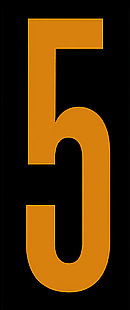
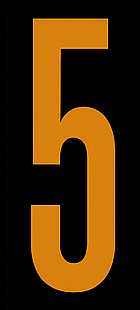
corrected digit 5 size

diff --git a/src/controller_display/digits.cpp b/src/controller_display/digits.cpp
@@ -400,76 +400,76 @@ const size_t digit_4_size = sizeof(digit_4) / sizeof(digit_4[0]);
 
 const unsigned int digit_5_w = 31;
 const unsigned char digit_5[] PROGMEM={
-    0,0,0,0,0,0,0,0,0,0,0,0,0,0,0,0,0,0,0,0,0,0,0,0,0,0,0,0,0,0,0,0,0,0,0,0,0,0,0,0,0,0,0,0,0,0,0,0,0,0,0,0,0,0,0,0,0,0
-    ,0,0,0,0,0,0,0,0,0,0,0,0,0,0,0,0,0,0,0,0,0,0,0,0,0,0,0,0,0,0,0,0,0,0,0,0,0,0,0,0,0,0,0,0,0,0,0,0,0,0,0,0,0,0,0,0,0,0
-    ,0,0,0,0,0,0,0,0,0,0,0,0,0,0,0,0,0,0,0,0,0,0,0,0,0,0,0,0,0,0,0,0,0,0,0,0,0,0,0,0,0,0,0,0,0,0,0,0,0,0,0,0,0,0,0,0,0,0
-    ,0,0,0,0,0,0,0,0,0,0,0,0,0,0,0,0,0,0,0,0,0,0,0,0,0,0,0,0,0,0,0,0,0,0,0,0,0,0,0,0,0,0,0,0,0,0,0,0,0,0,0,0,0,0,0,0,0,0
-    ,0,0,0,0,0,0,0,0,0,0,0,0,146,224,179,129,179,129,179,129,179,129,179,129,179,129,179,129,179,129,179,129,179,129,179,129,179,129,179,129,179,129,179,129,179,193,0,0,0,0,0,0,0,0,0,0,0,0
-    ,0,0,0,0,0,0,0,0,0,0,0,0,171,97,212,1,212,1,212,1,212,1,212,1,212,1,212,1,212,1,212,1,212,1,212,1,212,1,212,1,212,1,212,1,220,97,0,0,0,0,0,0,0,0,0,0,0,0
-    ,0,0,0,0,0,0,0,0,0,0,0,0,171,97,211,225,212,1,220,1,220,1,212,1,220,1,220,1,220,1,220,1,220,1,212,1,220,1,212,1,212,1,212,1,220,97,0,0,0,0,0,0,0,0,0,0,0,0
-    ,0,0,0,0,0,0,0,0,0,0,0,0,171,97,212,1,212,1,212,1,212,1,220,1,220,1,220,1,220,1,220,1,220,1,212,1,220,1,220,1,220,1,220,1,220,65,0,0,0,0,0,0,0,0,0,0,0,0
-    ,0,0,0,0,0,0,0,0,0,0,0,0,171,97,211,225,212,1,212,1,212,1,220,1,220,1,220,1,220,1,220,1,220,1,220,1,212,1,220,1,220,1,220,1,220,65,0,0,0,0,0,0,0,0,0,0,0,0
-    ,0,0,0,0,0,0,0,0,0,0,0,0,171,97,212,1,212,1,212,1,220,1,220,1,212,1,220,1,212,1,220,1,220,1,212,1,212,1,212,1,212,1,220,1,220,65,0,0,0,0,0,0,0,0,0,0,0,0
-    ,0,0,0,0,0,0,0,0,0,0,0,0,171,97,212,1,212,1,212,1,220,1,220,1,220,33,228,65,228,65,228,65,228,65,220,33,220,65,228,65,228,65,228,65,228,129,0,0,0,0,0,0,0,0,0,0,0,0
-    ,0,0,0,0,0,0,0,0,0,0,0,0,171,97,211,225,220,1,220,1,220,1,211,225,122,64,8,64,8,64,8,64,8,64,8,64,8,64,8,64,8,64,8,64,8,64,0,0,0,0,0,0,0,0,0,0,0,0
-    ,0,0,0,0,0,0,0,0,0,0,0,0,171,97,211,225,220,1,220,1,220,1,211,225,114,32,0,0,0,0,0,0,0,0,0,0,0,0,0,0,0,0,0,0,0,0,0,0,0,0,0,0,0,0,0,0,0,0
-    ,0,0,0,0,0,0,0,0,0,0,0,0,171,97,212,1,212,1,212,1,220,1,211,225,106,0,0,0,0,0,0,0,0,0,0,0,0,0,0,0,0,0,0,0,0,0,0,0,0,0,0,0,0,0,0,0,0,0
-    ,0,0,0,0,0,0,0,0,0,0,0,0,171,97,212,1,212,1,212,1,220,1,211,225,106,0,0,0,0,0,0,0,0,0,0,0,0,0,0,0,0,0,0,0,0,0,0,0,0,0,0,0,0,0,0,0,0,0
-    ,0,0,0,0,0,0,0,0,0,0,0,0,171,97,211,225,220,1,212,1,220,1,211,225,106,0,0,0,0,0,0,0,0,0,0,0,0,0,0,0,0,0,0,0,0,0,0,0,0,0,0,0,0,0,0,0,0,0
-    ,0,0,0,0,0,0,0,0,0,0,0,0,171,97,211,225,212,1,212,1,220,1,211,225,106,0,0,0,0,0,0,0,0,0,0,0,0,0,0,0,0,0,0,0,0,0,0,0,0,0,0,0,0,0,0,0,0,0
-    ,0,0,0,0,0,0,0,0,0,0,0,0,171,97,211,225,212,1,212,1,212,1,211,225,106,0,0,0,0,0,0,0,0,0,0,0,0,0,0,0,0,0,0,0,0,0,0,0,0,0,0,0,0,0,0,0,0,0
-    ,0,0,0,0,0,0,0,0,0,0,0,0,171,97,211,225,220,1,212,1,220,1,211,225,106,0,0,0,0,0,0,0,0,0,0,0,0,0,0,0,0,0,0,0,0,0,0,0,0,0,0,0,0,0,0,0,0,0
-    ,0,0,0,0,0,0,0,0,0,0,0,0,171,97,211,225,212,1,212,1,212,1,211,225,106,0,0,0,0,0,0,0,0,0,0,0,0,0,0,0,0,0,0,0,0,0,0,0,0,0,0,0,0,0,0,0,0,0
-    ,0,0,0,0,0,0,0,0,0,0,0,0,171,97,211,225,212,1,212,1,212,1,211,225,105,224,0,0,0,0,0,0,0,0,0,0,0,0,0,0,0,0,0,0,0,0,0,0,0,0,0,0,0,0,0,0,0,0
-    ,0,0,0,0,0,0,0,0,0,0,0,0,171,97,211,225,212,1,212,1,220,1,211,225,98,0,0,0,0,0,0,0,0,0,0,0,0,0,0,0,0,0,0,0,0,0,0,0,0,0,0,0,0,0,0,0,0,0
-    ,0,0,0,0,0,0,0,0,0,0,0,0,171,97,212,1,220,1,220,1,220,1,211,225,97,224,0,0,0,0,0,0,0,0,0,0,0,0,0,0,0,0,0,0,0,0,0,0,0,0,0,0,0,0,0,0,0,0
-    ,0,0,0,0,0,0,0,0,0,0,0,0,171,97,211,225,212,1,220,1,220,1,211,225,97,224,0,0,0,0,0,0,0,0,0,0,0,0,0,0,0,0,0,0,0,0,0,0,0,0,0,0,0,0,0,0,0,0
-    ,0,0,0,0,0,0,0,0,0,0,0,0,171,97,211,225,220,1,220,1,220,1,211,225,97,224,0,0,16,96,122,96,179,97,195,161,187,129,130,161,32,192,0,0,0,0,0,0,0,0,0,0,0,0,0,0,0,0
-    ,0,0,0,0,0,0,0,0,0,0,0,0,171,97,212,1,212,1,220,1,220,1,211,225,89,224,49,0,203,225,211,225,220,1,212,1,220,1,212,1,212,1,106,32,0,0,0,0,0,0,0,0,0,0,0,0,0,0
-    ,0,0,0,0,0,0,0,0,0,0,0,0,171,97,212,1,212,1,212,1,220,1,211,225,106,32,203,225,212,1,212,1,220,1,220,1,220,1,220,1,212,1,220,1,98,0,0,0,0,0,0,0,0,0,0,0,0,0
-    ,0,0,0,0,0,0,0,0,0,0,0,0,171,97,211,225,212,1,220,1,220,1,220,1,195,193,211,225,212,1,220,1,220,1,220,1,220,1,220,1,212,1,212,1,212,1,24,128,0,0,0,0,0,0,0,0,0,0
-    ,0,0,0,0,0,0,0,0,0,0,0,0,171,97,211,225,220,1,220,1,220,1,220,1,212,1,220,1,220,1,220,1,212,1,220,1,212,1,220,1,220,1,220,1,211,225,130,128,0,0,0,0,0,0,0,0,0,0
-    ,0,0,0,0,0,0,0,0,0,0,0,0,171,97,212,1,212,1,212,1,220,1,220,1,212,1,212,1,212,1,220,1,220,1,220,1,212,1,212,1,220,1,212,1,212,1,203,225,8,32,0,0,0,0,0,0,0,0
-    ,0,0,0,0,0,0,0,0,0,0,0,0,171,97,212,1,212,1,212,1,220,1,220,1,220,1,211,225,220,1,220,33,220,1,212,1,212,1,220,1,212,1,212,1,212,1,220,33,48,224,0,0,0,0,0,0,0,0
-    ,0,0,0,0,0,0,0,0,0,0,0,0,171,97,220,1,212,1,212,1,220,1,220,1,220,1,171,65,49,0,32,160,89,224,203,225,212,1,212,1,212,1,220,1,212,1,211,225,89,160,0,0,0,0,0,0,0,0
-    ,0,0,0,0,0,0,0,0,0,0,0,0,171,97,212,1,212,1,212,1,212,1,212,1,203,193,8,64,0,0,0,0,0,0,81,160,220,1,220,1,212,1,212,1,212,1,211,225,122,64,0,0,0,0,0,0,0,0
-    ,0,0,0,0,0,0,0,0,0,0,0,0,171,97,211,225,212,1,212,1,212,1,212,1,130,128,0,0,0,0,0,0,0,0,0,32,203,225,212,1,212,1,212,1,212,1,211,225,130,128,0,0,0,0,0,0,0,0
-    ,0,0,0,0,0,0,0,0,0,0,0,0,171,97,212,1,212,1,212,1,212,1,211,225,89,192,0,0,0,0,0,0,0,0,0,0,163,33,212,1,212,1,220,1,220,1,220,1,130,128,0,0,0,0,0,0,0,0
-    ,0,0,0,0,0,0,0,0,0,0,0,0,171,97,211,225,212,1,212,1,212,1,211,225,65,96,0,0,0,0,0,0,0,0,0,0,155,1,220,1,220,1,220,1,212,1,212,1,130,128,0,0,0,0,0,0,0,0
-    ,0,0,0,0,0,0,0,0,0,0,0,0,171,129,220,33,220,33,220,33,220,33,220,33,65,128,0,0,0,0,0,0,0,0,0,0,155,0,212,1,212,1,220,1,220,1,220,1,130,128,0,0,0,0,0,0,0,0
-    ,0,0,0,0,0,0,0,0,0,0,0,0,24,128,32,160,32,160,32,160,32,160,32,160,8,64,0,0,0,0,0,0,0,0,0,0,155,1,220,1,220,1,220,1,212,1,220,1,130,128,0,0,0,0,0,0,0,0
-    ,0,0,0,0,0,0,0,0,0,0,0,0,0,0,0,0,0,0,0,0,0,0,0,0,0,0,0,0,0,0,0,0,0,0,0,0,155,1,220,1,220,1,212,1,220,1,220,1,130,128,0,0,0,0,0,0,0,0
-    ,0,0,0,0,0,0,0,0,0,0,0,0,0,0,0,0,0,0,0,0,0,0,0,0,0,0,0,0,0,0,0,0,0,0,0,0,155,0,220,1,220,1,212,1,220,1,220,1,130,128,0,0,0,0,0,0,0,0
-    ,0,0,0,0,0,0,0,0,0,0,0,0,0,0,0,0,0,0,0,0,0,0,0,0,0,0,0,0,0,0,0,0,0,0,0,0,155,1,212,1,212,1,212,1,220,1,220,1,130,128,0,0,0,0,0,0,0,0
-    ,0,0,0,0,0,0,0,0,0,0,0,0,0,0,0,0,0,0,0,0,0,0,0,0,0,0,0,0,0,0,0,0,0,0,0,0,155,0,220,1,212,1,212,1,212,1,220,1,130,128,0,0,0,0,0,0,0,0
-    ,0,0,0,0,0,0,0,0,0,0,0,0,0,0,0,0,0,0,0,0,0,0,0,0,0,0,0,0,0,0,0,0,0,0,0,0,163,0,220,1,220,1,212,1,220,1,220,1,130,128,0,0,0,0,0,0,0,0
-    ,0,0,0,0,0,0,0,0,0,0,0,0,0,0,0,0,0,0,0,0,0,0,0,0,0,0,0,0,0,0,0,0,0,0,0,0,163,0,220,1,212,1,212,1,220,1,220,1,130,128,0,0,0,0,0,0,0,0
-    ,0,0,0,0,0,0,0,0,0,0,0,0,0,0,0,0,0,0,0,0,0,0,0,0,0,0,0,0,0,0,0,0,0,0,0,0,163,0,212,1,220,1,220,1,220,1,220,1,130,128,0,0,0,0,0,0,0,0
-    ,0,0,0,0,0,0,0,0,0,0,0,0,0,0,0,0,0,0,0,0,0,0,0,0,0,0,0,0,0,0,0,0,0,0,0,0,163,0,220,1,212,1,220,1,220,1,220,1,130,128,0,0,0,0,0,0,0,0
-    ,0,0,0,0,0,0,0,0,0,0,32,192,163,65,163,65,163,65,163,65,163,65,163,33,49,32,0,0,0,0,0,0,0,0,0,0,163,0,220,1,220,1,220,1,220,1,220,1,130,128,0,0,0,0,0,0,0,0
-    ,0,0,0,0,0,0,0,0,0,0,49,0,220,33,220,1,220,1,220,1,212,1,211,225,65,128,0,0,0,0,0,0,0,0,0,0,163,0,220,1,220,1,220,1,220,1,220,1,130,128,0,0,0,0,0,0,0,0
-    ,0,0,0,0,0,0,0,0,0,0,49,0,220,33,220,1,220,1,220,1,220,1,211,225,65,128,0,0,0,0,0,0,0,0,0,0,163,0,220,1,220,1,212,1,220,1,212,1,130,128,0,0,0,0,0,0,0,0
-    ,0,0,0,0,0,0,0,0,0,0,49,0,220,1,212,1,212,1,220,1,220,1,211,225,65,128,0,0,0,0,0,0,0,0,0,0,163,0,220,1,220,1,220,1,220,1,212,1,130,128,0,0,0,0,0,0,0,0
-    ,0,0,0,0,0,0,0,0,0,0,49,0,220,1,212,1,220,1,220,1,220,1,211,225,65,128,0,0,0,0,0,0,0,0,0,0,163,0,220,1,220,1,220,1,220,1,220,1,130,128,0,0,0,0,0,0,0,0
-    ,0,0,0,0,0,0,0,0,0,0,49,0,220,1,212,1,212,1,212,1,220,1,211,225,65,128,0,0,0,0,0,0,0,0,0,0,155,0,220,1,220,1,220,1,220,1,220,1,130,128,0,0,0,0,0,0,0,0
-    ,0,0,0,0,0,0,0,0,0,0,49,0,220,1,212,1,220,1,212,1,220,1,211,225,65,128,0,0,0,0,0,0,0,0,0,0,155,0,220,1,220,1,220,1,220,1,220,1,130,128,0,0,0,0,0,0,0,0
-    ,0,0,0,0,0,0,0,0,0,0,49,0,220,1,220,1,212,1,220,1,220,1,211,225,65,128,0,0,0,0,0,0,0,0,0,0,155,0,220,1,220,1,220,1,220,1,220,1,130,128,0,0,0,0,0,0,0,0
-    ,0,0,0,0,0,0,0,0,0,0,49,0,220,1,220,1,220,1,220,1,220,1,211,225,65,128,0,0,0,0,0,0,0,0,0,0,163,1,220,1,212,1,220,1,220,1,220,1,130,128,0,0,0,0,0,0,0,0
-    ,0,0,0,0,0,0,0,0,0,0,49,0,220,1,212,1,220,1,220,1,220,1,211,225,65,128,0,0,0,0,0,0,0,0,0,0,163,33,220,1,220,1,220,1,220,1,220,1,130,128,0,0,0,0,0,0,0,0
-    ,0,0,0,0,0,0,0,0,0,0,40,192,220,1,212,1,212,1,220,1,220,1,211,225,89,224,0,0,0,0,0,0,0,0,0,0,187,161,220,1,212,1,220,1,220,1,211,225,122,64,0,0,0,0,0,0,0,0
-    ,0,0,0,0,0,0,0,0,0,0,8,32,220,33,212,1,220,1,220,1,220,1,212,1,154,224,0,0,0,0,0,0,0,0,24,128,212,1,220,1,220,1,220,1,220,1,211,225,89,192,0,0,0,0,0,0,0,0
-    ,0,0,0,0,0,0,0,0,0,0,0,0,195,193,212,1,212,1,212,1,220,1,212,1,220,1,73,128,0,0,0,0,0,0,146,192,212,1,220,1,220,1,220,1,220,1,220,33,48,224,0,0,0,0,0,0,0,0
-    ,0,0,0,0,0,0,0,0,0,0,0,0,138,193,211,225,212,1,212,1,220,1,212,1,220,1,212,1,155,1,138,160,179,97,220,1,212,1,212,1,220,1,220,1,212,1,203,225,8,32,0,0,0,0,0,0,0,0
-    ,0,0,0,0,0,0,0,0,0,0,0,0,65,64,220,1,212,1,212,1,212,1,212,1,212,1,212,1,212,1,212,1,212,1,220,1,220,1,220,1,220,1,220,1,211,225,130,160,0,0,0,0,0,0,0,0,0,0
-    ,0,0,0,0,0,0,0,0,0,0,0,0,0,0,179,129,212,1,212,1,220,1,220,1,220,1,212,1,212,1,212,1,212,1,220,1,220,1,220,1,212,1,220,1,220,1,32,160,0,0,0,0,0,0,0,0,0,0
-    ,0,0,0,0,0,0,0,0,0,0,0,0,0,0,57,32,212,1,212,1,212,1,212,1,220,1,212,1,212,1,220,1,220,1,220,1,220,1,220,1,220,1,220,1,122,128,0,0,0,0,0,0,0,0,0,0,0,0
-    ,0,0,0,0,0,0,0,0,0,0,0,0,0,0,0,0,89,192,212,1,211,225,212,1,212,1,212,1,212,1,212,1,220,1,220,1,220,1,212,1,220,1,155,32,0,0,0,0,0,0,0,0,0,0,0,0,0,0
-    ,0,0,0,0,0,0,0,0,0,0,0,0,0,0,0,0,0,0,65,64,195,161,212,1,212,1,211,225,211,225,212,1,212,1,212,1,212,1,220,1,130,128,0,32,0,0,0,0,0,0,0,0,0,0,0,0,0,0
-    ,0,0,0,0,0,0,0,0,0,0,0,0,0,0,0,0,0,0,0,0,0,32,81,192,155,1,195,193,212,1,212,33,212,1,187,161,130,160,40,192,0,0,0,0,0,0,0,0,0,0,0,0,0,0,0,0,0,0
-    ,0,0,0,0,0,0,0,0,0,0,0,0,0,0,0,0,0,0,0,0,0,0,0,0,0,0,0,0,0,0,8,32,0,0,0,0,0,0,0,0,0,0,0,0,0,0,0,0,0,0,0,0,0,0,0,0,0,0
-    ,0,0,0,0,0,0,0,0,0,0,0,0,0,0,0,0,0,0,0,0,0,0,0,0,0,0,0,0,0,0,0,0,0,0,0,0,0,0,0,0,0,0,0,0,0,0,0,0,0,0,0,0,0,0,0,0,0,0
-    ,0,0,0,0,0,0,0,0,0,0,0,0,0,0,0,0,0,0,0,0,0,0,0,0,0,0,0,0,0,0,0,0,0,0,0,0,0,0,0,0,0,0,0,0,0,0,0,0,0,0,0,0,0,0,0,0,0,0
-    ,0,0,0,0,0,0,0,0,0,0,0,0,0,0,0,0,0,0,0,0,0,0,0,0,0,0,0,0,0,0,0,0,0,0,0,0,0,0,0,0,0,0,0,0,0,0,0,0,0,0,0,0,0,0,0,0,0,0
+    0,0,0,0,0,0,0,0,0,0,0,0,0,0,0,0,0,0,0,0,0,0,0,0,0,0,0,0,0,0,0,0,0,0,0,0,0,0,0,0,0,0,0,0,0,0,0,0,0,0,0,0,0,0,0,0,0,0,0,0,0,0
+    ,0,0,0,0,0,0,0,0,0,0,0,0,0,0,0,0,0,0,0,0,0,0,0,0,0,0,0,0,0,0,0,0,0,0,0,0,0,0,0,0,0,0,0,0,0,0,0,0,0,0,0,0,0,0,0,0,0,0,0,0,0,0
+    ,0,0,0,0,0,0,0,0,0,0,0,0,0,0,0,0,0,0,0,0,0,0,0,0,0,0,0,0,0,0,0,0,0,0,0,0,0,0,0,0,0,0,0,0,0,0,0,0,0,0,0,0,0,0,0,0,0,0,0,0,0,0
+    ,0,0,0,0,0,0,0,0,0,0,0,0,0,0,0,0,0,0,0,0,0,0,0,0,0,0,0,0,0,0,0,0,0,0,0,0,0,0,0,0,0,0,0,0,0,0,0,0,0,0,0,0,0,0,0,0,0,0,0,0,0,0
+    ,0,0,0,0,0,0,0,0,0,0,0,0,0,0,130,160,179,129,179,129,179,129,179,129,179,129,179,129,179,129,179,129,179,129,179,129,179,129,179,129,179,129,179,129,179,129,171,128,0,0,0,0,0,0,0,0,0,0,0,0,0,0
+    ,0,0,0,0,0,0,0,0,0,0,0,0,0,0,155,33,212,1,212,1,212,1,212,1,212,1,212,1,212,1,212,1,212,1,212,1,212,1,212,1,212,1,212,1,212,1,204,33,0,0,0,0,0,0,0,0,0,0,0,0,0,0
+    ,0,0,0,0,0,0,0,0,0,0,0,0,0,0,155,33,211,225,212,1,220,1,220,1,212,1,220,1,220,1,220,1,220,1,220,1,212,1,220,1,212,1,212,1,212,1,204,33,0,0,0,0,0,0,0,0,0,0,0,0,0,0
+    ,0,0,0,0,0,0,0,0,0,0,0,0,0,0,155,33,212,1,212,1,212,1,212,1,220,1,220,1,220,1,220,1,220,1,220,1,212,1,220,1,220,1,220,1,220,1,204,1,0,0,0,0,0,0,0,0,0,0,0,0,0,0
+    ,0,0,0,0,0,0,0,0,0,0,0,0,0,0,155,33,211,225,212,1,212,1,212,1,220,1,220,1,220,1,220,1,220,1,220,1,220,1,212,1,220,1,220,1,220,1,204,1,0,0,0,0,0,0,0,0,0,0,0,0,0,0
+    ,0,0,0,0,0,0,0,0,0,0,0,0,0,0,155,33,212,1,212,1,212,1,220,1,220,1,212,1,220,1,212,1,220,1,220,1,212,1,212,1,212,1,212,1,220,1,204,1,0,0,0,0,0,0,0,0,0,0,0,0,0,0
+    ,0,0,0,0,0,0,0,0,0,0,0,0,0,0,155,33,212,1,212,1,212,1,220,1,220,1,220,33,228,65,228,65,228,65,228,65,220,33,220,65,228,65,228,65,228,65,212,65,0,0,0,0,0,0,0,0,0,0,0,0,0,0
+    ,0,0,0,0,0,0,0,0,0,0,0,0,0,0,155,33,211,225,220,1,220,1,220,1,211,225,122,64,8,64,8,64,8,64,8,64,8,64,8,64,8,64,8,64,8,64,8,64,0,0,0,0,0,0,0,0,0,0,0,0,0,0
+    ,0,0,0,0,0,0,0,0,0,0,0,0,0,0,155,33,211,225,220,1,220,1,220,1,211,225,114,32,0,0,0,0,0,0,0,0,0,0,0,0,0,0,0,0,0,0,0,0,0,0,0,0,0,0,0,0,0,0,0,0,0,0
+    ,0,0,0,0,0,0,0,0,0,0,0,0,0,0,155,33,212,1,212,1,212,1,220,1,211,225,114,32,0,0,0,0,0,0,0,0,0,0,0,0,0,0,0,0,0,0,0,0,0,0,0,0,0,0,0,0,0,0,0,0,0,0
+    ,0,0,0,0,0,0,0,0,0,0,0,0,0,0,155,33,212,1,212,1,212,1,220,1,211,225,106,0,0,0,0,0,0,0,0,0,0,0,0,0,0,0,0,0,0,0,0,0,0,0,0,0,0,0,0,0,0,0,0,0,0,0
+    ,0,0,0,0,0,0,0,0,0,0,0,0,0,0,155,33,211,225,220,1,212,1,220,1,211,225,106,0,0,0,0,0,0,0,0,0,0,0,0,0,0,0,0,0,0,0,0,0,0,0,0,0,0,0,0,0,0,0,0,0,0,0
+    ,0,0,0,0,0,0,0,0,0,0,0,0,0,0,155,33,211,225,212,1,212,1,220,1,211,225,106,0,0,0,0,0,0,0,0,0,0,0,0,0,0,0,0,0,0,0,0,0,0,0,0,0,0,0,0,0,0,0,0,0,0,0
+    ,0,0,0,0,0,0,0,0,0,0,0,0,0,0,155,33,211,225,212,1,212,1,212,1,211,225,106,0,0,0,0,0,0,0,0,0,0,0,0,0,0,0,0,0,0,0,0,0,0,0,0,0,0,0,0,0,0,0,0,0,0,0
+    ,0,0,0,0,0,0,0,0,0,0,0,0,0,0,155,33,211,225,220,1,212,1,220,1,211,225,106,0,0,0,0,0,0,0,0,0,0,0,0,0,0,0,0,0,0,0,0,0,0,0,0,0,0,0,0,0,0,0,0,0,0,0
+    ,0,0,0,0,0,0,0,0,0,0,0,0,0,0,155,33,211,225,212,1,212,1,212,1,211,225,106,0,0,0,0,0,0,0,0,0,0,0,0,0,0,0,0,0,0,0,0,0,0,0,0,0,0,0,0,0,0,0,0,0,0,0
+    ,0,0,0,0,0,0,0,0,0,0,0,0,0,0,155,33,211,225,212,1,212,1,212,1,211,225,106,0,0,0,0,0,0,0,0,0,0,0,0,0,0,0,0,0,0,0,0,0,0,0,0,0,0,0,0,0,0,0,0,0,0,0
+    ,0,0,0,0,0,0,0,0,0,0,0,0,0,0,155,33,211,225,212,1,212,1,220,1,211,225,106,0,0,0,0,0,0,0,0,0,0,0,0,0,0,0,0,0,0,0,0,0,0,0,0,0,0,0,0,0,0,0,0,0,0,0
+    ,0,0,0,0,0,0,0,0,0,0,0,0,0,0,155,33,212,1,220,1,220,1,220,1,211,225,106,0,0,0,0,0,0,0,0,0,0,0,0,0,0,0,0,0,0,0,0,0,0,0,0,0,0,0,0,0,0,0,0,0,0,0
+    ,0,0,0,0,0,0,0,0,0,0,0,0,0,0,155,33,211,225,212,1,220,1,220,1,211,225,97,224,0,0,0,0,0,0,0,0,0,0,0,0,0,0,0,0,0,0,0,0,0,0,0,0,0,0,0,0,0,0,0,0,0,0
+    ,0,0,0,0,0,0,0,0,0,0,0,0,0,0,155,33,211,225,220,1,220,1,220,1,211,225,97,224,0,0,16,96,122,96,179,97,195,161,187,129,130,129,32,160,0,0,0,0,0,0,0,0,0,0,0,0,0,0,0,0,0,0
+    ,0,0,0,0,0,0,0,0,0,0,0,0,0,0,155,33,212,1,212,1,220,1,220,1,211,225,97,224,49,0,203,193,211,225,220,1,212,1,220,1,212,1,212,1,97,224,0,0,0,0,0,0,0,0,0,0,0,0,0,0,0,0
+    ,0,0,0,0,0,0,0,0,0,0,0,0,0,0,155,33,212,1,212,1,212,1,220,1,211,225,106,32,203,225,212,1,212,1,220,1,220,1,220,1,220,1,212,1,220,1,89,160,0,0,0,0,0,0,0,0,0,0,0,0,0,0
+    ,0,0,0,0,0,0,0,0,0,0,0,0,0,0,155,33,211,225,212,1,220,1,220,1,220,1,195,193,211,225,212,1,220,1,220,1,220,1,220,1,220,1,212,1,212,1,211,225,16,96,0,0,0,0,0,0,0,0,0,0,0,0
+    ,0,0,0,0,0,0,0,0,0,0,0,0,0,0,155,33,211,225,220,1,220,1,220,1,220,1,212,1,220,1,220,1,220,1,212,1,220,1,212,1,220,1,220,1,220,1,211,225,114,64,0,0,0,0,0,0,0,0,0,0,0,0
+    ,0,0,0,0,0,0,0,0,0,0,0,0,0,0,155,33,212,1,212,1,212,1,220,1,220,1,212,1,212,1,212,1,220,1,220,1,220,1,212,1,212,1,220,1,212,1,212,1,195,193,0,0,0,0,0,0,0,0,0,0,0,0
+    ,0,0,0,0,0,0,0,0,0,0,0,0,0,0,155,33,220,1,212,1,212,1,220,1,220,1,220,1,211,225,220,1,220,33,220,1,212,1,212,1,220,1,220,1,212,1,212,1,220,65,24,128,0,0,0,0,0,0,0,0,0,0
+    ,0,0,0,0,0,0,0,0,0,0,0,0,0,0,155,33,220,1,212,1,212,1,220,1,220,1,220,1,171,65,49,0,32,160,97,224,211,225,212,1,212,1,212,1,220,1,212,1,211,225,73,96,0,0,0,0,0,0,0,0,0,0
+    ,0,0,0,0,0,0,0,0,0,0,0,0,0,0,155,33,212,1,212,1,212,1,212,1,212,1,203,225,8,64,0,0,0,0,0,0,89,192,220,1,220,1,212,1,212,1,212,1,211,225,106,0,0,0,0,0,0,0,0,0,0,0
+    ,0,0,0,0,0,0,0,0,0,0,0,0,0,0,155,33,211,225,212,1,212,1,212,1,212,1,130,160,0,0,0,0,0,0,0,0,8,32,212,1,212,1,212,1,220,1,212,1,211,225,114,32,0,0,0,0,0,0,0,0,0,0
+    ,0,0,0,0,0,0,0,0,0,0,0,0,0,0,155,33,212,1,212,1,212,1,212,1,211,225,89,224,0,0,0,0,0,0,0,0,0,0,171,65,212,1,212,1,220,1,220,1,220,1,114,64,0,0,0,0,0,0,0,0,0,0
+    ,0,0,0,0,0,0,0,0,0,0,0,0,0,0,155,33,211,225,212,1,212,1,212,1,211,225,65,128,0,0,0,0,0,0,0,0,0,0,163,33,220,1,220,1,220,1,212,1,212,1,114,64,0,0,0,0,0,0,0,0,0,0
+    ,0,0,0,0,0,0,0,0,0,0,0,0,0,0,163,65,220,33,220,33,220,33,220,33,220,33,73,128,0,0,0,0,0,0,0,0,0,0,163,33,212,1,212,1,220,1,220,1,220,1,114,64,0,0,0,0,0,0,0,0,0,0
+    ,0,0,0,0,0,0,0,0,0,0,0,0,0,0,24,128,32,160,32,160,32,160,32,160,32,160,8,64,0,0,0,0,0,0,0,0,0,0,163,33,220,1,220,1,220,1,220,1,220,1,114,64,0,0,0,0,0,0,0,0,0,0
+    ,0,0,0,0,0,0,0,0,0,0,0,0,0,0,0,0,0,0,0,0,0,0,0,0,0,0,0,0,0,0,0,0,0,0,0,0,0,0,163,33,220,1,220,1,212,1,220,1,220,1,114,64,0,0,0,0,0,0,0,0,0,0
+    ,0,0,0,0,0,0,0,0,0,0,0,0,0,0,0,0,0,0,0,0,0,0,0,0,0,0,0,0,0,0,0,0,0,0,0,0,0,0,163,33,220,1,220,1,212,1,220,1,220,1,114,64,0,0,0,0,0,0,0,0,0,0
+    ,0,0,0,0,0,0,0,0,0,0,0,0,0,0,0,0,0,0,0,0,0,0,0,0,0,0,0,0,0,0,0,0,0,0,0,0,0,0,163,33,212,1,212,1,212,1,220,1,220,1,114,32,0,0,0,0,0,0,0,0,0,0
+    ,0,0,0,0,0,0,0,0,0,0,0,0,0,0,0,0,0,0,0,0,0,0,0,0,0,0,0,0,0,0,0,0,0,0,0,0,0,0,163,33,220,1,212,1,220,1,212,1,220,1,114,64,0,0,0,0,0,0,0,0,0,0
+    ,0,0,0,0,0,0,0,0,0,0,0,0,0,0,0,0,0,0,0,0,0,0,0,0,0,0,0,0,0,0,0,0,0,0,0,0,0,0,163,33,220,1,220,1,212,1,220,1,220,1,114,64,0,0,0,0,0,0,0,0,0,0
+    ,0,0,0,0,0,0,0,0,0,0,0,0,0,0,0,0,0,0,0,0,0,0,0,0,0,0,0,0,0,0,0,0,0,0,0,0,0,0,163,33,220,1,212,1,212,1,220,1,212,1,114,64,0,0,0,0,0,0,0,0,0,0
+    ,0,0,0,0,0,0,0,0,0,0,0,0,0,0,0,0,0,0,0,0,0,0,0,0,0,0,0,0,0,0,0,0,0,0,0,0,0,0,163,32,220,1,220,1,220,1,220,1,220,1,114,32,0,0,0,0,0,0,0,0,0,0
+    ,0,0,0,0,0,0,0,0,0,0,0,0,0,0,0,0,0,0,0,0,0,0,0,0,0,0,0,0,0,0,0,0,0,0,0,0,0,0,163,32,220,1,212,1,220,1,220,1,220,1,114,32,0,0,0,0,0,0,0,0,0,0
+    ,0,0,0,0,0,0,0,0,0,0,0,0,24,128,163,65,163,65,163,65,163,65,163,65,163,33,49,64,0,0,0,0,0,0,0,0,0,0,163,32,220,1,220,1,220,1,220,1,220,1,114,32,0,0,0,0,0,0,0,0,0,0
+    ,0,0,0,0,0,0,0,0,0,0,0,0,32,160,220,33,220,1,220,1,220,1,212,1,211,225,65,128,0,0,0,0,0,0,0,0,0,0,163,33,220,1,220,1,220,1,220,1,220,1,114,32,0,0,0,0,0,0,0,0,0,0
+    ,0,0,0,0,0,0,0,0,0,0,0,0,32,160,220,33,220,1,220,1,220,1,220,1,211,225,65,160,0,0,0,0,0,0,0,0,0,0,163,32,220,1,220,1,212,1,220,1,212,1,114,64,0,0,0,0,0,0,0,0,0,0
+    ,0,0,0,0,0,0,0,0,0,0,0,0,32,160,220,33,212,1,212,1,220,1,220,1,211,225,65,160,0,0,0,0,0,0,0,0,0,0,163,32,220,1,220,1,220,1,220,1,212,1,114,64,0,0,0,0,0,0,0,0,0,0
+    ,0,0,0,0,0,0,0,0,0,0,0,0,32,160,220,33,212,1,220,1,220,1,220,1,211,225,65,160,0,0,0,0,0,0,0,0,0,0,163,33,220,1,220,1,220,1,220,1,220,1,114,64,0,0,0,0,0,0,0,0,0,0
+    ,0,0,0,0,0,0,0,0,0,0,0,0,32,160,220,33,212,1,212,1,212,1,220,1,211,225,65,160,0,0,0,0,0,0,0,0,0,0,163,32,220,1,220,1,220,1,220,1,220,1,114,32,0,0,0,0,0,0,0,0,0,0
+    ,0,0,0,0,0,0,0,0,0,0,0,0,32,160,220,33,212,1,220,1,212,1,220,1,211,225,65,160,0,0,0,0,0,0,0,0,0,0,163,33,220,1,220,1,220,1,220,1,220,1,114,64,0,0,0,0,0,0,0,0,0,0
+    ,0,0,0,0,0,0,0,0,0,0,0,0,32,160,220,33,220,1,212,1,220,1,220,1,211,225,65,128,0,0,0,0,0,0,0,0,0,0,163,33,220,1,220,1,220,1,220,1,220,1,114,64,0,0,0,0,0,0,0,0,0,0
+    ,0,0,0,0,0,0,0,0,0,0,0,0,32,160,220,33,220,1,220,1,220,1,220,1,211,225,65,128,0,0,0,0,0,0,0,0,0,0,163,33,220,1,212,1,220,1,220,1,220,1,114,64,0,0,0,0,0,0,0,0,0,0
+    ,0,0,0,0,0,0,0,0,0,0,0,0,32,160,220,33,212,1,220,1,220,1,220,1,211,225,73,128,0,0,0,0,0,0,0,0,0,0,171,33,220,1,220,1,220,1,220,1,220,1,114,64,0,0,0,0,0,0,0,0,0,0
+    ,0,0,0,0,0,0,0,0,0,0,0,0,24,128,220,1,212,1,212,1,220,1,220,1,211,225,97,224,0,0,0,0,0,0,0,0,0,0,195,193,220,1,212,1,220,1,220,1,211,225,106,0,0,0,0,0,0,0,0,0,0,0
+    ,0,0,0,0,0,0,0,0,0,0,0,0,8,32,212,1,212,1,220,1,220,1,220,1,212,1,155,0,0,0,0,0,0,0,0,0,24,128,220,33,220,1,220,1,220,1,220,1,211,225,73,128,0,0,0,0,0,0,0,0,0,0
+    ,0,0,0,0,0,0,0,0,0,0,0,0,0,0,179,129,212,1,212,1,212,1,220,1,212,1,220,1,73,128,0,0,0,0,0,0,146,225,212,1,220,1,220,1,220,1,220,1,220,33,24,128,0,0,0,0,0,0,0,0,0,0
+    ,0,0,0,0,0,0,0,0,0,0,0,0,0,0,130,129,211,225,212,1,212,1,220,1,212,1,220,1,212,1,155,1,138,160,179,129,220,1,212,1,212,1,220,1,220,1,212,1,195,193,0,0,0,0,0,0,0,0,0,0,0,0
+    ,0,0,0,0,0,0,0,0,0,0,0,0,0,0,49,0,220,1,212,1,212,1,212,1,212,1,212,1,212,1,212,1,212,1,212,1,220,1,220,1,220,1,220,1,220,1,211,225,122,96,0,0,0,0,0,0,0,0,0,0,0,0
+    ,0,0,0,0,0,0,0,0,0,0,0,0,0,0,0,0,171,65,212,1,212,1,220,1,220,1,220,1,212,1,212,1,212,1,212,1,220,1,220,1,220,1,212,1,220,1,212,1,24,128,0,0,0,0,0,0,0,0,0,0,0,0
+    ,0,0,0,0,0,0,0,0,0,0,0,0,0,0,0,0,48,224,212,1,212,1,212,1,212,1,220,1,212,1,212,1,220,1,220,1,220,1,220,1,220,1,220,1,220,1,114,64,0,0,0,0,0,0,0,0,0,0,0,0,0,0
+    ,0,0,0,0,0,0,0,0,0,0,0,0,0,0,0,0,0,0,81,160,212,1,211,225,212,1,212,1,212,1,212,1,212,1,220,1,220,1,212,1,212,1,220,1,146,224,0,0,0,0,0,0,0,0,0,0,0,0,0,0,0,0
+    ,0,0,0,0,0,0,0,0,0,0,0,0,0,0,0,0,0,0,0,0,57,32,187,161,212,1,212,1,211,225,211,225,212,1,212,1,212,1,212,1,220,1,122,96,0,0,0,0,0,0,0,0,0,0,0,0,0,0,0,0,0,0
+    ,0,0,0,0,0,0,0,0,0,0,0,0,0,0,0,0,0,0,0,0,0,0,0,0,81,192,147,1,195,193,212,1,212,33,212,1,187,129,130,128,32,192,0,0,0,0,0,0,0,0,0,0,0,0,0,0,0,0,0,0,0,0
+    ,0,0,0,0,0,0,0,0,0,0,0,0,0,0,0,0,0,0,0,0,0,0,0,0,0,0,0,0,0,0,0,0,8,32,0,0,0,0,0,0,0,0,0,0,0,0,0,0,0,0,0,0,0,0,0,0,0,0,0,0,0,0
+    ,0,0,0,0,0,0,0,0,0,0,0,0,0,0,0,0,0,0,0,0,0,0,0,0,0,0,0,0,0,0,0,0,0,0,0,0,0,0,0,0,0,0,0,0,0,0,0,0,0,0,0,0,0,0,0,0,0,0,0,0,0,0
+    ,0,0,0,0,0,0,0,0,0,0,0,0,0,0,0,0,0,0,0,0,0,0,0,0,0,0,0,0,0,0,0,0,0,0,0,0,0,0,0,0,0,0,0,0,0,0,0,0,0,0,0,0,0,0,0,0,0,0,0,0,0,0
+    ,0,0,0,0,0,0,0,0,0,0,0,0,0,0,0,0,0,0,0,0,0,0,0,0,0,0,0,0,0,0,0,0,0,0,0,0,0,0,0,0,0,0,0,0,0,0,0,0,0,0,0,0,0,0,0,0,0,0,0,0,0,0
 };
 const size_t digit_5_size = sizeof(digit_5) / sizeof(digit_5[0]);
 

diff --git a/src/controller_display/scales.cpp b/src/controller_display/scales.cpp
@@ -22,7 +22,7 @@ POSSIBILITY OF SUCH DAMAGE.
 #include "controller_display.h"
 
 
-const unsigned int sclaes_h = 15;
+const unsigned int scales_h = 15;
 const unsigned int scales_y = 124;
 const unsigned int scales_0_w = 23;
 const unsigned int scales_0_x = 75;
